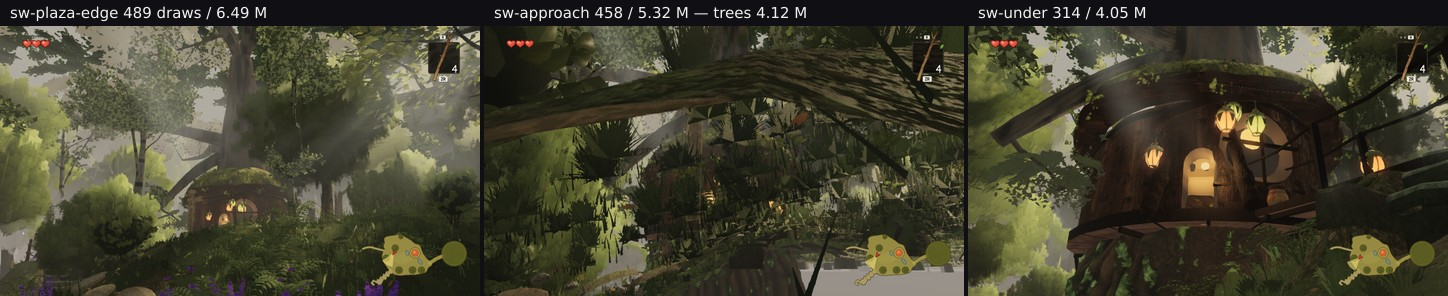
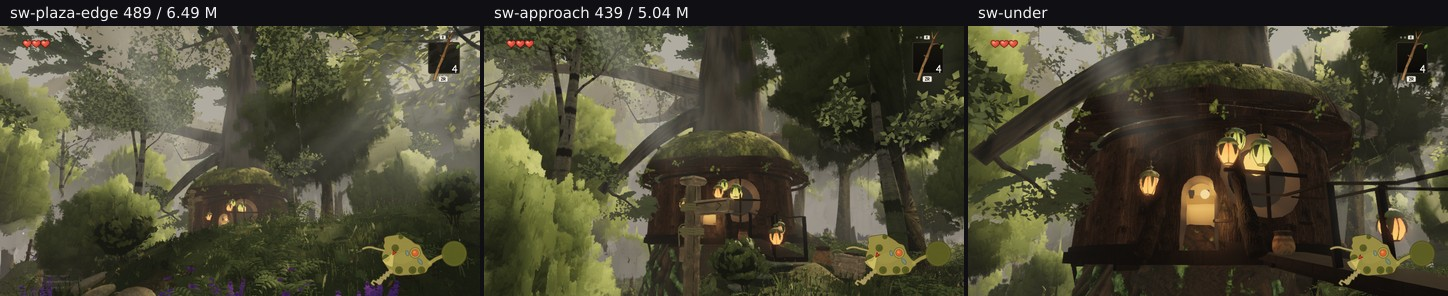
squad2: the southwest defect withdrawn in full — at a standing eye it is one of the better views
Re-rendered with y = ground + 1.75 instead of an absolute 1.75. sw-approach becomes the
tree-house with its mossy dome roof and lit pod lanterns, white-bark trunks framing it,
layered foliage with real depth and a bough arching overhead, at 439 draws / 5 039 017.
Nothing about it is flat or hard-edged. There is nothing for lanes 3 or 4 to fix.

The corrected set: sw-plaza-edge 489 / 6 485 687, sw-approach 439 / 5 039 017, sw-under
312 / 4 044 267 - and sw-under's trees row is 4 038 544, still the heaviest tree load
anywhere measured, above hero A's 3.55 M, though none of the three is a rubric viewpoint.

The README now reports the round in the order it happened, because the order is the point:
the frame looked broken, the first guess (a crown card drawn close - a LOD-gate failure,
this lane's) was rejected by its own number, and the question I had written down as coming
before any report to anyone turned out to be the whole answer. The only reason a wasted
report did not go to two other lanes is that ordering.

groundcheck.mjs would have prevented the entire episode in the two minutes before the
first render, and any pose authored by aiming rather than by walking should go through it -
especially off the plaza, because the plaza is flat at y ~ 0 and that is exactly what makes
an absolute 1.75 feel safe.

diff --git a/art/environment/squad2-2026-09-23/southwest/README.md b/art/environment/squad2-2026-09-23/southwest/README.md
@@ -1,62 +1,29 @@
-# Three poses nobody in this lane had ever looked at — one of them is bad, and not for the reason I guessed
+# Three poses nobody in this lane had looked at — the defect I found in one of them was my own camera
 
-Lane 2, 2026-09-30. Branch `cursor/squad2-treephases-682b`. **No code changed here.**
+Lane 2, 2026-09-30. Branch `cursor/squad2-treephases-682b`. **No world code changed.**
 
 `auditgap/` §3 needed a camera aimed at the **southwest giant** at `(-23, 2.6, 9)`, because its detached
 boughs are gated by a frustum test and none of the six fixed viewpoints looks that way. Three poses were
-authored for that purpose and then, having them, they were rendered and **looked at** — which no round of
-this lane had done for this part of the world.
+authored for that, and then — having them — they were rendered and **looked at**, which no round of this lane
+had done for this corner of the world.
 
-| pose | camera → target | draws / triangles | the trees' own row |
-| --- | --- | --- | --- |
-| `sw-plaza-edge` | (−2, 1.75, 4) → (−23, 9, 9) | 489 / 6 485 687 | 82 / 3 980 797 |
-| **`sw-approach`** | (−8, 1.75, 7) → (−23, 7, 9) | 458 / 5 320 061 | **83 / 4 116 658** |
-| `sw-under` | (−14, 1.75, 9) → (−23, 6, 9) | 314 / 4 048 161 | 77 / 3 875 777 |
+**Verdict: the corner is good, and the frame that looked broken was a camera lying on the ground.**
+Reported here in the order it happened, because the order is the point.
 
-`sw-approach` carries **4.12 M tree triangles — more than any fixed viewpoint in the rubric**, hero A's
-3.55 M included. So this is both an unexamined composition and the heaviest tree load in the world.
+## 1. What the frames looked like, and the alarm
 
-<img alt="the three southwest poses" src="three-poses.jpg" />
+`sw-approach`'s middle and lower thirds were filled with large, hard-edged, flat-looking foliage — spiky
+fronds a metre or two across with straight polygon edges, at a scale that reads as arm's length rather than
+10–20 m. That is the opposite of this lane's charter line and the same shape as the owner's backlog item 4.
 
-## Two of the three are good
+It also carried **4.12 M tree triangles, more than any fixed viewpoint** in the rubric, hero A's 3.55 M
+included, so it looked like a genuine find in an unexamined place.
 
-`sw-plaza-edge` and `sw-under` show what this corner is for: the second tree-house wrapped around the
-giant's bole, its pod lanterns lit, moss and climbing foliage on the trunk, god rays coming down through
-layered crowns. Nothing in them reads as flat, and the middle distance has depth.
+## 2. The first measurement rejected the first guess
 
-## `sw-approach` does not
-
-<img alt="sw-approach: the frame is dominated by large hard-edged foliage at close range" src="sw-approach.png" />
-
-The middle and lower two thirds of the frame are covered by **large, hard-edged, flat-looking foliage** —
-spiky fronds a metre or two across with visible straight polygon edges, repeating across the frame at a
-scale that reads as leaves an arm's length away rather than canopy at 10–20 m. It is the opposite of the
-charter line this lane is measured on ("layered trees with readable crowns and trunks at 15–80 m … the far
-ring never reads as flat cards from below") and it is the same *shape* of complaint as the owner's backlog
-item 4, the dark flat mass overhead, which `roofsky/` fixed for the canopy roof.
-
-**The candidate list I wrote before measuring, kept because the measurement below rejects most of it.**
-Twice this week a mechanism written before the measurement turned out to be wrong (`bandwidth/LOWTIER.md` §4,
-and `poolpredict/`), so it was written as a list rather than a diagnosis — and the list was still wrong at
-the top:
-
-- a mid or distant **crown card** drawn at close range, where the rung should long since have swapped to
-  real geometry — that would be a LOD-gate failure and squarely this lane's;
-- the **giant's own canopy laminae** seen from inside its crown, which is `giant.ts` geometry reached through
-  this lane's swap distances;
-- the **understory** at close range, which is the third banded family;
-- or a pose a player cannot actually stand in, in which case it is not a defect at all — `(-8, 1.75, 7)`
-  was chosen to frame the boughs, not by walking there, and that has to be checked before anything else.
-
-## The attribution, and it kills the leading candidate
-
-`outlook/familycost.mjs` crashed — it needs a temporary handle on the trees group that was added for a
-measurement and taken out again (`INDEX.md` records that), so it reads `undefined.visible` and dies after
-the control frame. That is a second, smaller finding: **the lane has a committed probe that cannot run on
-the current `src/`**, and a reader would not know until they tried.
-
-The submission split from `auditgap/ck-sw.json` answers the question anyway, because it is per family and per
-LOD. At `sw-approach`, of the trees' 4 116 658 triangles:
+The candidate I put at the top of the list was a **mid or distant crown card drawn at close range** — a
+LOD-gate failure, squarely this lane's. The per-family, per-LOD submission (`auditgap/ck-sw.json`, already on
+disk from the previous round) rejects it outright:
 
 | family | calls | triangles | instances |
 | --- | --- | --- | --- |
@@ -64,44 +31,91 @@ LOD. At `sw-approach`, of the trees' 4 116 658 triangles:
 | `giant-far-foliage-batch` | 6 | 740 888 | 3 |
 | `giant-near-canopy-batch` | 1 | 695 915 | 1 |
 | `giant-wood` | 6 | 541 250 | 3 |
-| `whitebark-lod1` | 7 | 127 992 | 10 |
 | **`mid-near`** | 5 | **39 630** | 75 |
-| `distant-*` | — | not in the top twelve | — |
 
-**So it is not a card drawn too close, and not a LOD-gate failure.** The mid grove's near rung contributes
-**39 630 of 4 116 658 triangles — under 1 %** — and the distant layer does not reach the top twelve. What
-fills the frame is **sixteen white-barks at their highest rung** (104 K triangles each) plus the giant's
-near-canopy and far-foliage batches: **real geometry at close range, which is the rungs doing exactly the
-right thing.**
+`mid-near` is **under 1 %** of the trees' 4 116 658 and the distant layer is not in the top twelve, while
+sixteen white-barks sit at their highest rung. The rungs were doing exactly the right thing; everything near
+was at rung 0. So: real geometry at close range, which pointed at `whitebark.ts` and `giant.ts` — lanes 3 and
+4 — at a distance the art may never have been judged at.
 
-That moves the defect out of this lane's machinery. What the frame shows is the **close-range appearance of
-white-bark leaf geometry and the giants' laminae** — `whitebark.ts` and `giant.ts`, lanes 3 and 4 — at a
-distance the art was probably never judged at, with sixteen of them overlapping at once. My own leading
-candidate above was wrong, and the measurement took ten seconds because the data was already on disk from
-the previous round.
+**No report went to those lanes**, because one question came first.
 
-**What is still not established:** whether a player can stand at `(-8, 1.75, 7)` at all. That pose was
-authored to frame the boughs, not by walking there. If the camera is inside a crown cluster no player can
-enter, there is nothing to fix and the right outcome is to say so. That is the next round's first job, and
-it comes before any suggestion to another lane — a defect report at an unreachable pose wastes somebody's
-evening.
+## 3. And that question was the whole answer
+
+Was `(-8, 1.75, 7)` somewhere a player can stand? The pose was authored to frame the boughs, not walked to.
+`__ZR__.probe(x, z)` returns the heightfield's height, slope and mask, so `groundcheck.mjs` answers it with
+one page load and **no rendering at all**:
+
+| pose | ground | camera y | **above ground** | a standing eye would be | mask |
+| --- | --- | --- | --- | --- | --- |
+| `sw-plaza-edge` | 0.012 | 1.75 | **1.738** ok | 1.762 | path 1.00 |
+| **`sw-approach`** | **1.727** | 1.75 | **0.023** | **3.477** | plateau 0.09 |
+| **`sw-under`** | **1.516** | 1.75 | **0.234** | **3.266** | plateau 0.61 |
+| A_stairs · B_house · C_lookback | ≈ 0 | 1.8 · 1.5 · 1.45 | 1.818 · 1.519 · 1.467 ok | — | path 1.00 |
+| D_log · F_canopy | ≈ 0 | 1.45 · 1.8 | 1.436 · 1.787 ok | — | path 1.00 |
+| owner north · west | 0.017 | 1.75 | 1.733 · 1.733 ok | — | path 1.00 |
+
+**The camera at `sw-approach` was twenty-three millimetres above the ground.** The plateau rises to 1.5–1.7 m
+there and I had authored `y` as an **absolute** — which is a standing eye on the flat plaza, where every other
+pose in this lane sits, and ground level on a slope. A camera 2 cm off the ground looking up at 7 m sees the
+underside of the understory and the white-barks' lowest foliage from a few centimetres away. "Giant hard-edged
+fronds" is what leaves look like against the lens.
+
+Checking the eight poses nobody doubted is what makes that table readable: they all land 1.44–1.82 m above
+ground on `path 1.00`, which is the band the two suspects miss by two orders of magnitude.
+
+## 4. At a standing eye it is one of the better views in the world
+
+Same pose, same target, `y` = ground + 1.75:
+
+<img alt="sw-approach with the camera on the ground and at a standing eye" src="pose-fixed.jpg" />
+
+The tree-house with its mossy dome roof and lit pod lanterns, white-bark trunks framing it, layered foliage
+with real depth, a bough arching overhead. **439 draws / 5 039 017 triangles**, trees 82 / 3 885 873.
+
+<img alt="the three southwest poses at standing eye heights" src="three-poses.jpg" />
+
+| pose (corrected) | draws / triangles | the trees' own row |
+| --- | --- | --- |
+| `sw-plaza-edge` | 489 / 6 485 687 | 82 / 3 980 797 |
+| `sw-approach` | 439 / 5 039 017 | 82 / 3 885 873 |
+| `sw-under` | 312 / 4 044 267 | **76 / 4 038 544** |
+
+`sw-under` still carries the world's heaviest tree load at **4.04 M**, above hero A's 3.55 M — worth knowing,
+though none of these is a rubric viewpoint.
+
+## 5. What this round is actually worth
+
+**The defect is withdrawn in full.** There is nothing for lanes 3 or 4 to fix, and the only reason a wasted
+report did not go to them is that "is the pose reachable?" was written down as the first job before any
+suggestion to anyone. That ordering is the transferable part.
+
+The tool is the other part. **`groundcheck.mjs` would have prevented the entire episode** in the two minutes
+before the first render, and any pose authored by aiming rather than by walking should go through it —
+especially anywhere off the plaza, because the plaza is flat at y ≈ 0 and that is what makes an absolute
+`y` of 1.75 feel safe.
+
+A smaller finding fell out of the attempt: **`outlook/familycost.mjs` no longer runs** on the current `src/`.
+It needs a temporary handle on the trees group that was added for a measurement and removed again, so it
+throws `undefined.visible` after its control frame. A reader only finds out by trying it.
 
 ## Files
 
-- `southwest-poses.json` — the three poses, in broll/`frozen.mjs` format.
-- `three-poses.jpg`, `sw-approach.png` — the frames above.
-- `counts.json` — `frozen.mjs`'s reads, clock frozen.
+- `groundcheck.mjs` — §3's tool: ground height, slope and mask under a list of camera positions, no rendering.
+- `groundcheck.json` — §3's table.
+- `southwest-poses.json` — the three poses, **corrected** to ground + 1.75.
+- `pose-fixed.jpg` — §4, the buried camera against the standing one.
+- `three-poses.jpg`, `counts.json` — the corrected set.
+- `sw-approach.png` — the original buried-camera frame, kept because §1 is about what it looked like.
 
 ## Reproducing
 
 ```bash
 npm run build
+node art/environment/squad2-2026-09-23/southwest/groundcheck.mjs dist
 node art/environment/squad2-2026-09-23/frozen.mjs dist /tmp/sw \
      --poses art/environment/squad2-2026-09-23/southwest/southwest-poses.json --settle 8
-# the attribution, per family AND per LOD, without the hook familycost.mjs needs:
-node art/environment/squad2-2026-09-23/bandwidth/bucketprobe.mjs dist /tmp/sw.json \
-     --views '-8,1.75,7:-23,7,9' --quality high
 ```
 
-`outlook/familycost.mjs` does **not** run on the current `src/` — it needs a temporary handle on the trees
-group that no longer exists.
+For the per-family attribution in §2 use `bandwidth/bucketprobe.mjs --views '-8,3.48,7:-23,7,9'`;
+`outlook/familycost.mjs` does **not** run on the current `src/`.
